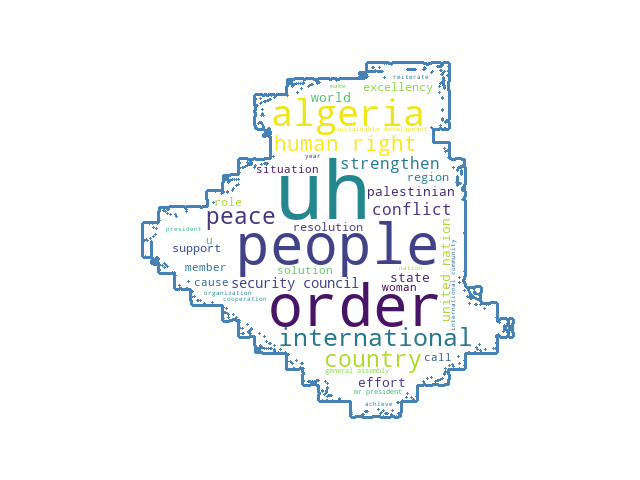
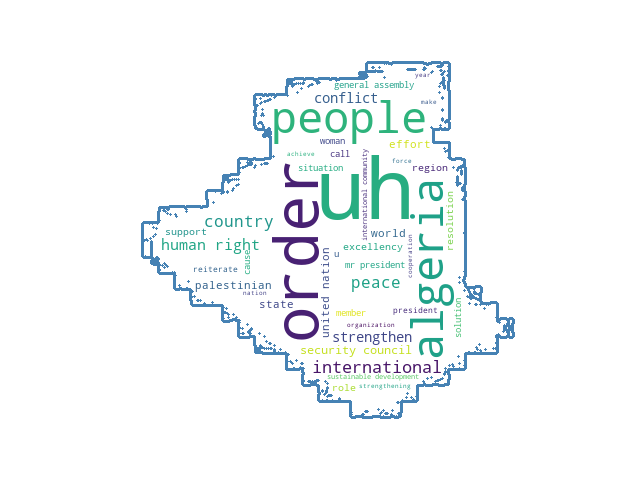
Add lexical plot and top n words plot

Changed region(s): [[0.25, 0.1562, 0.75, 0.8438]]

diff --git a/app/app.py b/app/app.py
@@ -3,15 +3,17 @@ import string
 from pathlib import Path
 from PIL import Image
 
+import nltk
 import numpy as np
 import pandas as pd
 import streamlit as st
 from nltk.corpus import stopwords
 from nltk.stem.wordnet import WordNetLemmatizer
+from nltk.tokenize import RegexpTokenizer
+from nltk.corpus import stopwords
 from wordcloud import WordCloud, STOPWORDS
 
 # To download data from nltk
-import nltk
 import ssl
 
 try:
@@ -51,12 +53,9 @@ def get_wordcloud(country_option: str):
     country_mask = np.array(Image.open(DATA_DIR / "masks" / f"{country_option}.jpg"))
     wc = WordCloud(
         background_color="white",
-        # max_words=2000,
         max_words=number_of_words,
         mask=country_mask,
         stopwords=stopwords,
-        width=600,
-        height=400,
         contour_width=3,
         contour_color="steelblue",
     )
@@ -66,11 +65,104 @@ def get_wordcloud(country_option: str):
     wc.to_file(DATA_DIR / "wordclouds" / f"{country_option}_words.png")
 
 
+def dispersion_plot(text, words, ignore_case=False, title="Lexical Dispersion Plot"):
+    """
+    Generate a lexical dispersion plot.
+
+    :param text: The source text
+    :type text: list(str) or iter(str)
+    :param words: The target words
+    :type words: list of str
+    :param ignore_case: flag to set if case should be ignored when searching text
+    :type ignore_case: bool
+    :return: a matplotlib Axes object that may still be modified before plotting
+    :rtype: Axes
+    """
+    # Coping nltk.draw.dispersion_plot directly because it has a bug that hasn't been merged into main
+    try:
+        import matplotlib.pyplot as plt
+    except ImportError as e:
+        raise ImportError(
+            "The plot function requires matplotlib to be installed. "
+            "See https://matplotlib.org/"
+        ) from e
+
+    word2y = {
+        word.casefold() if ignore_case else word: y
+        for y, word in enumerate(reversed(words))
+    }
+    xs, ys = [], []
+    for x, token in enumerate(text):
+        token = token.casefold() if ignore_case else token
+        y = word2y.get(token)
+        if y is not None:
+            xs.append(x)
+            ys.append(y)
+
+    words = words[::-1]  # this fix the order of words in the labels
+    _, ax = plt.subplots()
+    ax.plot(xs, ys, "|")
+    ax.set_yticks(list(range(len(words))), words, color="C0")
+    ax.set_ylim(-1, len(words))
+    ax.set_title(title)
+    ax.set_xlabel("Word Offset")
+    return ax.figure
+
+
+def plot_freq_words(country_option: str, top_n_words: int = 20):
+    corpus = get_corpus_from_file(country_option)
+    corpus = clean(corpus)
+
+    tokenizer = RegexpTokenizer(r"\w+")
+    tokens = tokenizer.tokenize(corpus.lower())
+    text = nltk.Text(tokens)
+
+    words = [w.lower() for w in tokens]
+
+    filtered_words = [
+        word for word in words if len(word) > 1 and word not in ["na", "la", "uh"]
+    ]
+    fdist = nltk.FreqDist(filtered_words)
+    st.pyplot(
+        dispersion_plot(text, [str(w) for w, f in fdist.most_common(top_n_words)])
+    )
+
+    return
+
+
+def plot_top_n_words(country_option: str, top_n_words: int = 20):
+    corpus = get_corpus_from_file(country_option)
+    corpus = clean(corpus)
+
+    tokenizer = RegexpTokenizer(r"\w+")
+    tokens = tokenizer.tokenize(corpus.lower())
+
+    words = [w.lower() for w in tokens]
+
+    filtered_words = [
+        word for word in words if len(word) > 1 and word not in ["na", "la", "uh"]
+    ]
+    fdist = nltk.FreqDist(filtered_words)
+
+    df = pd.DataFrame(columns=("word", "freq"))
+    i = 0
+    for word, frequency in fdist.most_common(top_n_words):
+        df.loc[i] = (word, frequency)
+        i += 1
+
+    title = f"Top {top_n_words} words in the speech"
+    st.pyplot(df.plot.barh(x="word", y="freq", title=title).invert_yaxis())
+
+    return
+
+
 st.set_page_config(
     page_title="UNGA78 Speech Analysis App",
     layout="wide",
     initial_sidebar_state="expanded",
 )
+st.set_option("deprecation.showPyplotGlobalUse", False)
+
 
 df_speech_url = pd.read_csv(DATA_DIR / "UN Speeches.csv")
 
@@ -85,6 +177,12 @@ with col1:
     image = Image.open(DATA_DIR / "wordclouds" / f"{country_option}_words.png")
     st.image(image, caption=f"Wordcloud {country_option}", use_column_width=True)
 
-
 with col2:
     st.video(df_speech_url[df_speech_url["country"] == country_option]["url"].values[0])
+
+col3, col4 = st.columns(2)
+with col3:
+    plot_freq_words(country_option, top_n_words=25)
+
+with col4:
+    plot_top_n_words(country_option, top_n_words=25)
